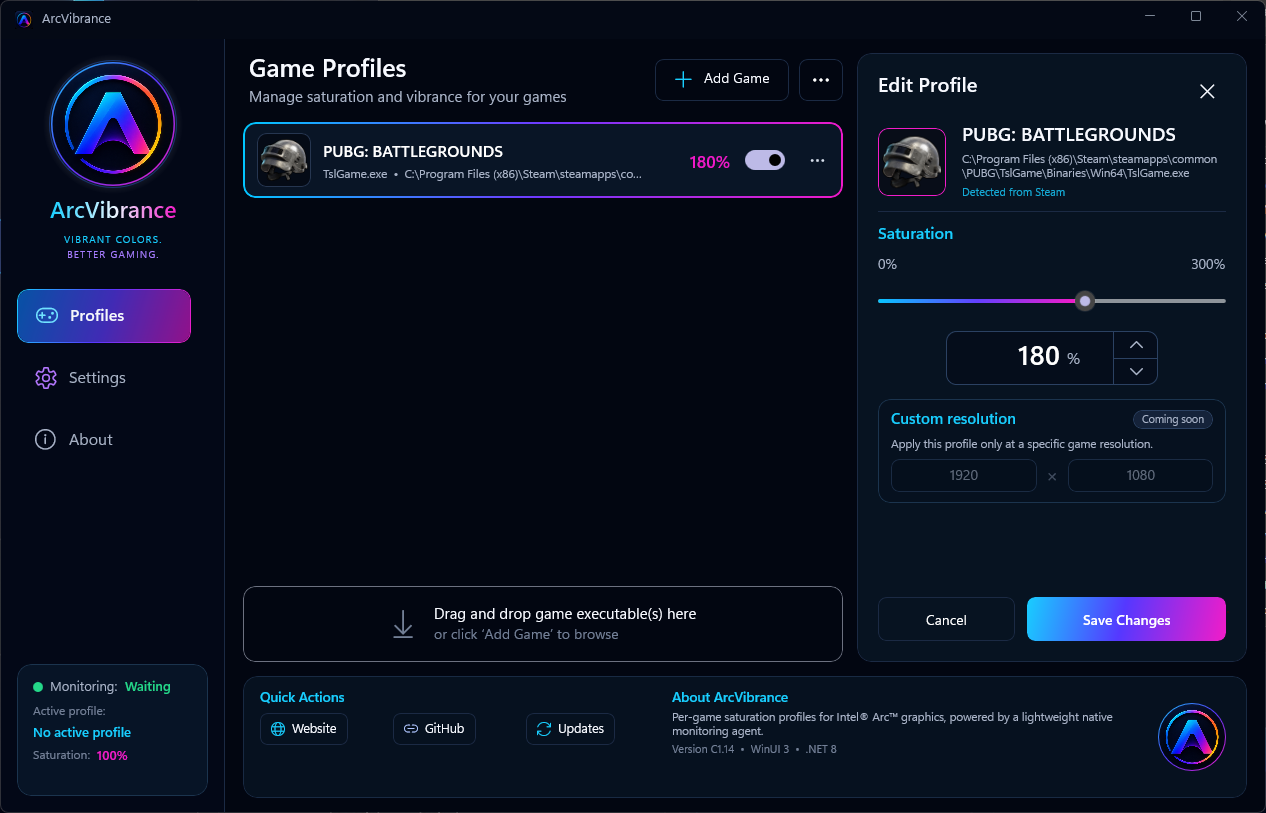
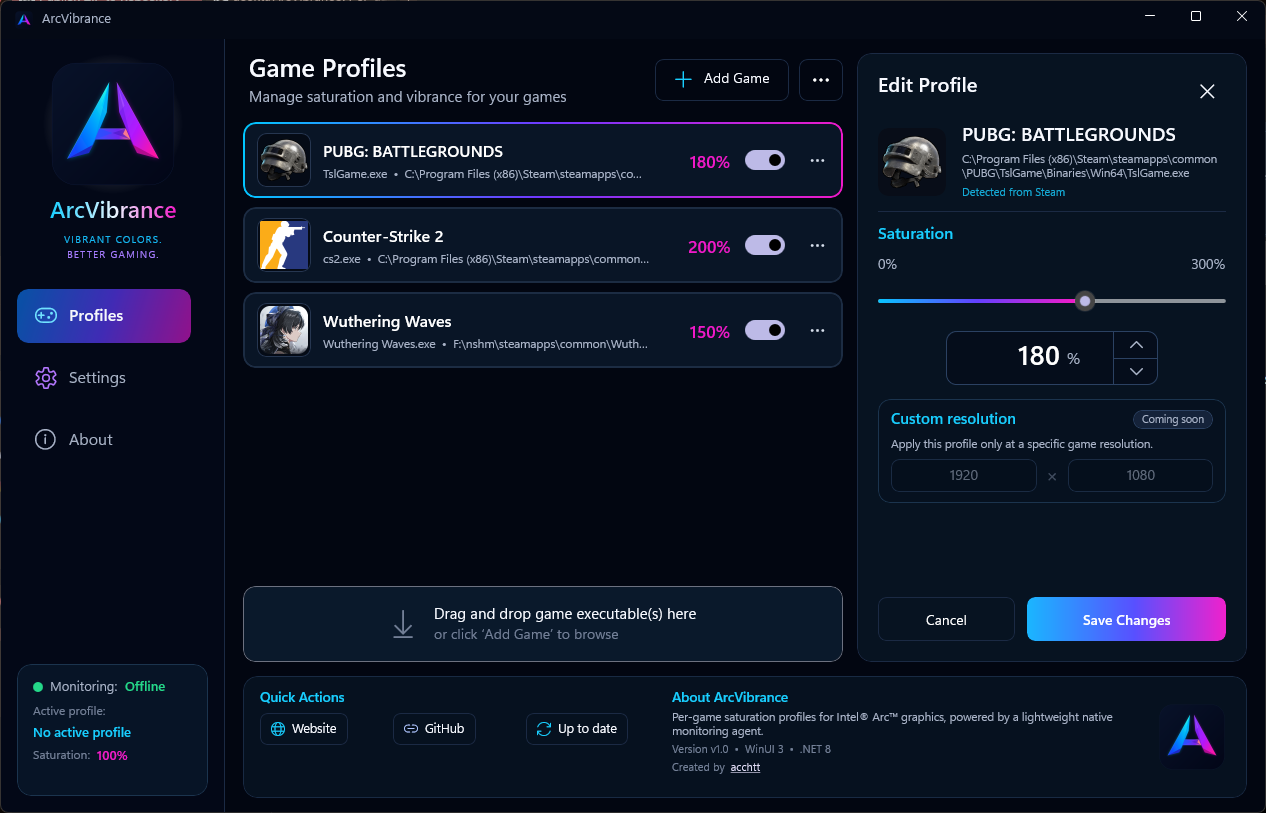
Release ArcVibrance v1.0 cleanup

diff --git a/ArcVibrance.WinUI/MainWindow.xaml b/ArcVibrance.WinUI/MainWindow.xaml
@@ -19,7 +19,7 @@
                 <ColumnDefinition Width="*" />
             </Grid.ColumnDefinitions>
             <StackPanel Orientation="Horizontal" Spacing="9" VerticalAlignment="Center" Margin="14,0,0,0">
-                <Image Source="Assets/ArcVibrance.png" Width="18" Height="18" />
+                <Image x:Name="TitleBarBrandLogo" Width="18" Height="18" />
                 <TextBlock Text="ArcVibrance" FontSize="13" Foreground="{ThemeResource TextSecondaryBrush}" />
             </StackPanel>
         </Grid>
@@ -56,7 +56,7 @@
                                     </RadialGradientBrush>
                                 </Ellipse.Fill>
                             </Ellipse>
-                            <Image Source="Assets/ArcVibrance.png"
+                            <Image x:Name="SidebarBrandLogo"
                                    Width="128"
                                    Height="128"
                                    Stretch="Uniform" />
@@ -514,11 +514,6 @@
                                                                    Foreground="{ThemeResource TextSecondaryBrush}" />
                                                     </Border>
                                                 </Grid>
-                                                <TextBlock Text="Apply this profile only at a specific game resolution."
-                                                           FontSize="11.5"
-                                                           Foreground="{ThemeResource TextSecondaryBrush}"
-                                                           TextWrapping="Wrap"
-                                                           MaxLines="2" />
                                                 <Grid ColumnSpacing="9" Opacity="0.55" IsHitTestVisible="False">
                                                     <Grid.ColumnDefinitions>
                                                         <ColumnDefinition Width="*" />
@@ -634,8 +629,8 @@
                                         <Hyperlink NavigateUri="https://github.com/acchtt">acchtt</Hyperlink>
                                     </TextBlock>
                                 </StackPanel>
-                                <Image Grid.Column="1"
-                                       Source="Assets/ArcVibrance.png"
+                                <Image x:Name="FooterBrandLogo"
+                                       Grid.Column="1"
                                        Width="68"
                                        Height="68"
                                        Stretch="Uniform"
@@ -709,7 +704,7 @@
                         <Border Style="{StaticResource CardBorderStyle}" Padding="34">
                             <Grid ColumnSpacing="28">
                                 <Grid.ColumnDefinitions><ColumnDefinition Width="160"/><ColumnDefinition Width="*"/></Grid.ColumnDefinitions>
-                                <Image Source="Assets/ArcVibrance.png" Width="150" Height="150" Stretch="Uniform" />
+                                <Image x:Name="AboutBrandLogo" Width="150" Height="150" Stretch="Uniform" />
                                 <StackPanel Grid.Column="1" VerticalAlignment="Center" Spacing="10">
                                     <TextBlock Text="ArcVibrance" FontSize="34" FontWeight="SemiBold" />
                                     <TextBlock Text="WinUI 3 migration preview" Foreground="{ThemeResource CyanBrush}" FontSize="17" />

diff --git a/ArcVibrance.WinUI/Services/BrandAssets.cs b/ArcVibrance.WinUI/Services/BrandAssets.cs
@@ -1,0 +1,96 @@
+using System.Reflection;
+
+namespace ArcVibrance.Services;
+
+internal static class BrandAssets
+{
+    private const string IconResourceName = "ArcVibrance.Brand.ArcVibrance.ico";
+    private const string LogoResourceName = "ArcVibrance.Brand.ArcVibrance.png";
+
+    private static readonly object Sync = new();
+    private static bool _ready;
+
+    public static string IconPath
+    {
+        get
+        {
+            EnsureExtracted();
+            return Path.Combine(GetBrandDirectory(), "ArcVibrance.ico");
+        }
+    }
+
+    public static string LogoPath
+    {
+        get
+        {
+            EnsureExtracted();
+            return Path.Combine(GetBrandDirectory(), "ArcVibrance.png");
+        }
+    }
+
+    public static void EnsureExtracted()
+    {
+        lock (Sync)
+        {
+            if (_ready)
+            {
+                return;
+            }
+
+            string directory = GetBrandDirectory();
+            Directory.CreateDirectory(directory);
+            Assembly assembly = typeof(BrandAssets).Assembly;
+
+            ExtractResource(
+                assembly,
+                IconResourceName,
+                Path.Combine(directory, "ArcVibrance.ico"));
+            ExtractResource(
+                assembly,
+                LogoResourceName,
+                Path.Combine(directory, "ArcVibrance.png"));
+
+            _ready = true;
+        }
+    }
+
+    private static string GetBrandDirectory() =>
+        Path.Combine(
+            Environment.GetFolderPath(Environment.SpecialFolder.LocalApplicationData),
+            "ArcVibrance",
+            "Brand",
+            UpdateService.CurrentVersionTag);
+
+    private static void ExtractResource(
+        Assembly assembly,
+        string resourceName,
+        string destinationPath)
+    {
+        using Stream source = assembly.GetManifestResourceStream(resourceName)
+            ?? throw new InvalidOperationException(
+                $"ArcVibrance is missing the embedded resource '{resourceName}'.");
+
+        string temporaryPath = $"{destinationPath}.{Environment.ProcessId}.tmp";
+        try
+        {
+            using (FileStream destination = new(
+                       temporaryPath,
+                       FileMode.Create,
+                       FileAccess.Write,
+                       FileShare.None))
+            {
+                source.CopyTo(destination);
+                destination.Flush(flushToDisk: true);
+            }
+
+            File.Move(temporaryPath, destinationPath, overwrite: true);
+        }
+        finally
+        {
+            if (File.Exists(temporaryPath))
+            {
+                File.Delete(temporaryPath);
+            }
+        }
+    }
+}

diff --git a/ArcVibrance.WinUI/MainWindow.xaml.cs b/ArcVibrance.WinUI/MainWindow.xaml.cs
@@ -8,6 +8,7 @@ using Microsoft.UI.Xaml.Controls;
 using Microsoft.UI.Xaml.Controls.Primitives;
 using Microsoft.UI.Xaml.Input;
 using Microsoft.UI.Xaml.Media;
+using Microsoft.UI.Xaml.Media.Imaging;
 using Windows.ApplicationModel.DataTransfer;
 using Windows.Storage;
 using Windows.Storage.Pickers;
@@ -36,6 +37,7 @@ public sealed partial class MainWindow : Window
     public MainWindow()
     {
         InitializeComponent();
+        ApplyBrandAssets();
         FooterVersionText.Text =
             $"Version {UpdateService.CurrentVersionTag}  •  WinUI 3  •  .NET 8";
         AboutVersionText.Text =
@@ -87,10 +89,19 @@ public sealed partial class MainWindow : Window
             presenter.IsMaximizable = true;
             presenter.IsMinimizable = true;
         }
-        _appWindow.SetIcon(Path.Combine(AppContext.BaseDirectory, "Assets", "ArcVibrance.ico"));
+        _appWindow.SetIcon(BrandAssets.IconPath);
         _appWindow.Closing += AppWindow_Closing;
 
         UpdateTitleBarColors(Root.ActualTheme);
+    }
+
+    private void ApplyBrandAssets()
+    {
+        var logo = new BitmapImage(new Uri(BrandAssets.LogoPath, UriKind.Absolute));
+        TitleBarBrandLogo.Source = logo;
+        SidebarBrandLogo.Source = logo;
+        FooterBrandLogo.Source = logo;
+        AboutBrandLogo.Source = logo;
     }
 
     private async void MainWindow_Activated(object sender, WindowActivatedEventArgs args)

diff --git a/ArcVibrance.WinUI/Services/UpdateService.cs b/ArcVibrance.WinUI/Services/UpdateService.cs
@@ -374,9 +374,7 @@ public sealed class UpdateService
         string[] requiredFiles =
         [
             "ArcVibrance.exe",
-            "ArcVibrance.Agent.exe",
-            Path.Combine("Assets", "ArcVibrance.ico"),
-            Path.Combine("Assets", "ArcVibrance.png")
+            "ArcVibrance.Agent.exe"
         ];
 
         foreach (string relativePath in requiredFiles)

diff --git a/README.md b/README.md
@@ -8,6 +8,8 @@ ArcVibrance is a lightweight Windows utility that automatically applies a config
 
 [Visit the ArcVibrance website](https://acchtt.github.io/ArcVibrance/)
 
+<img src="website/assets/arcvibrance-app.png" alt="ArcVibrance game profiles and profile editor" width="100%">
+
 ## Features
 
 - Per-game saturation profiles from 0% to 300%
@@ -60,7 +62,9 @@ The build output is written to `dist/x64/`. The solution can also be opened dire
 
 GitHub Actions runs the same Release x64 build and uploads a packaged Windows artifact for validation.
 Release builds use the version in `ArcVibrance.WinUI.csproj`, publish a matching
-versioned ZIP, and include a SHA-256 checksum beside the download.
+versioned ZIP, and include a SHA-256 checksum beside the download. The portable
+package contains only `ArcVibrance.exe` and `ArcVibrance.Agent.exe`; application
+artwork is embedded in the UI executable.
 
 ## Reporting issues
 